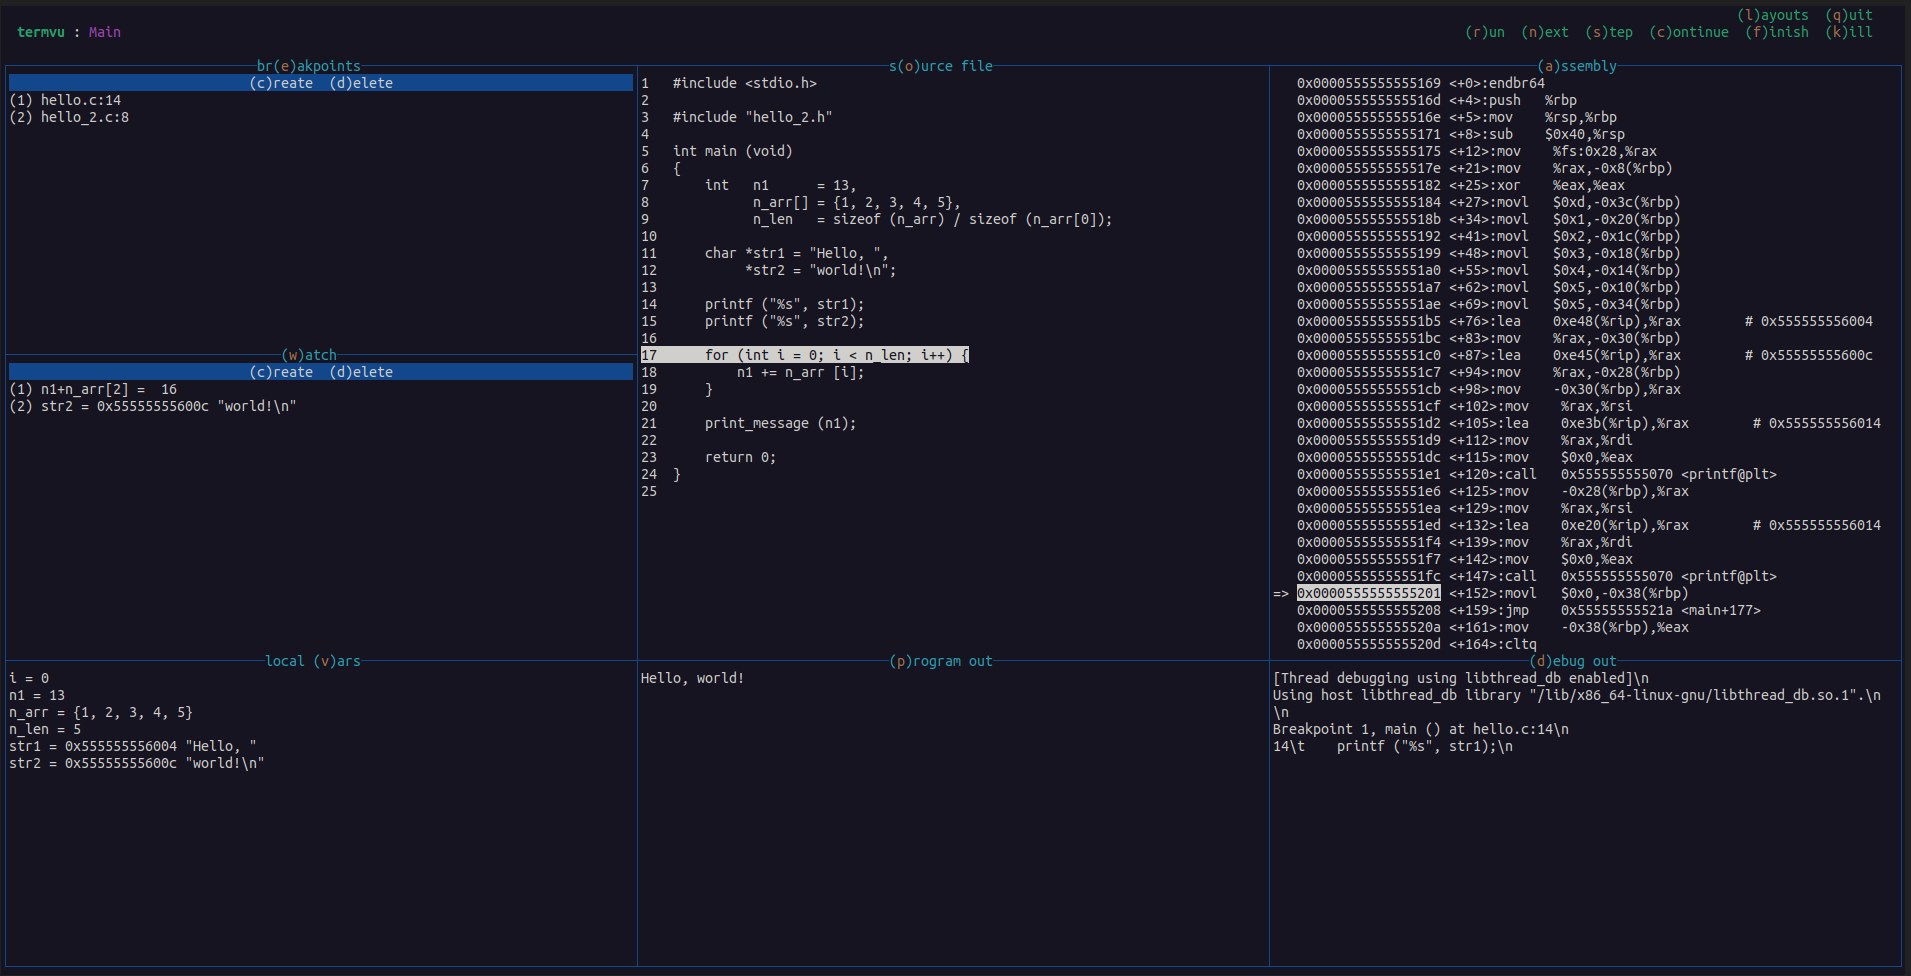
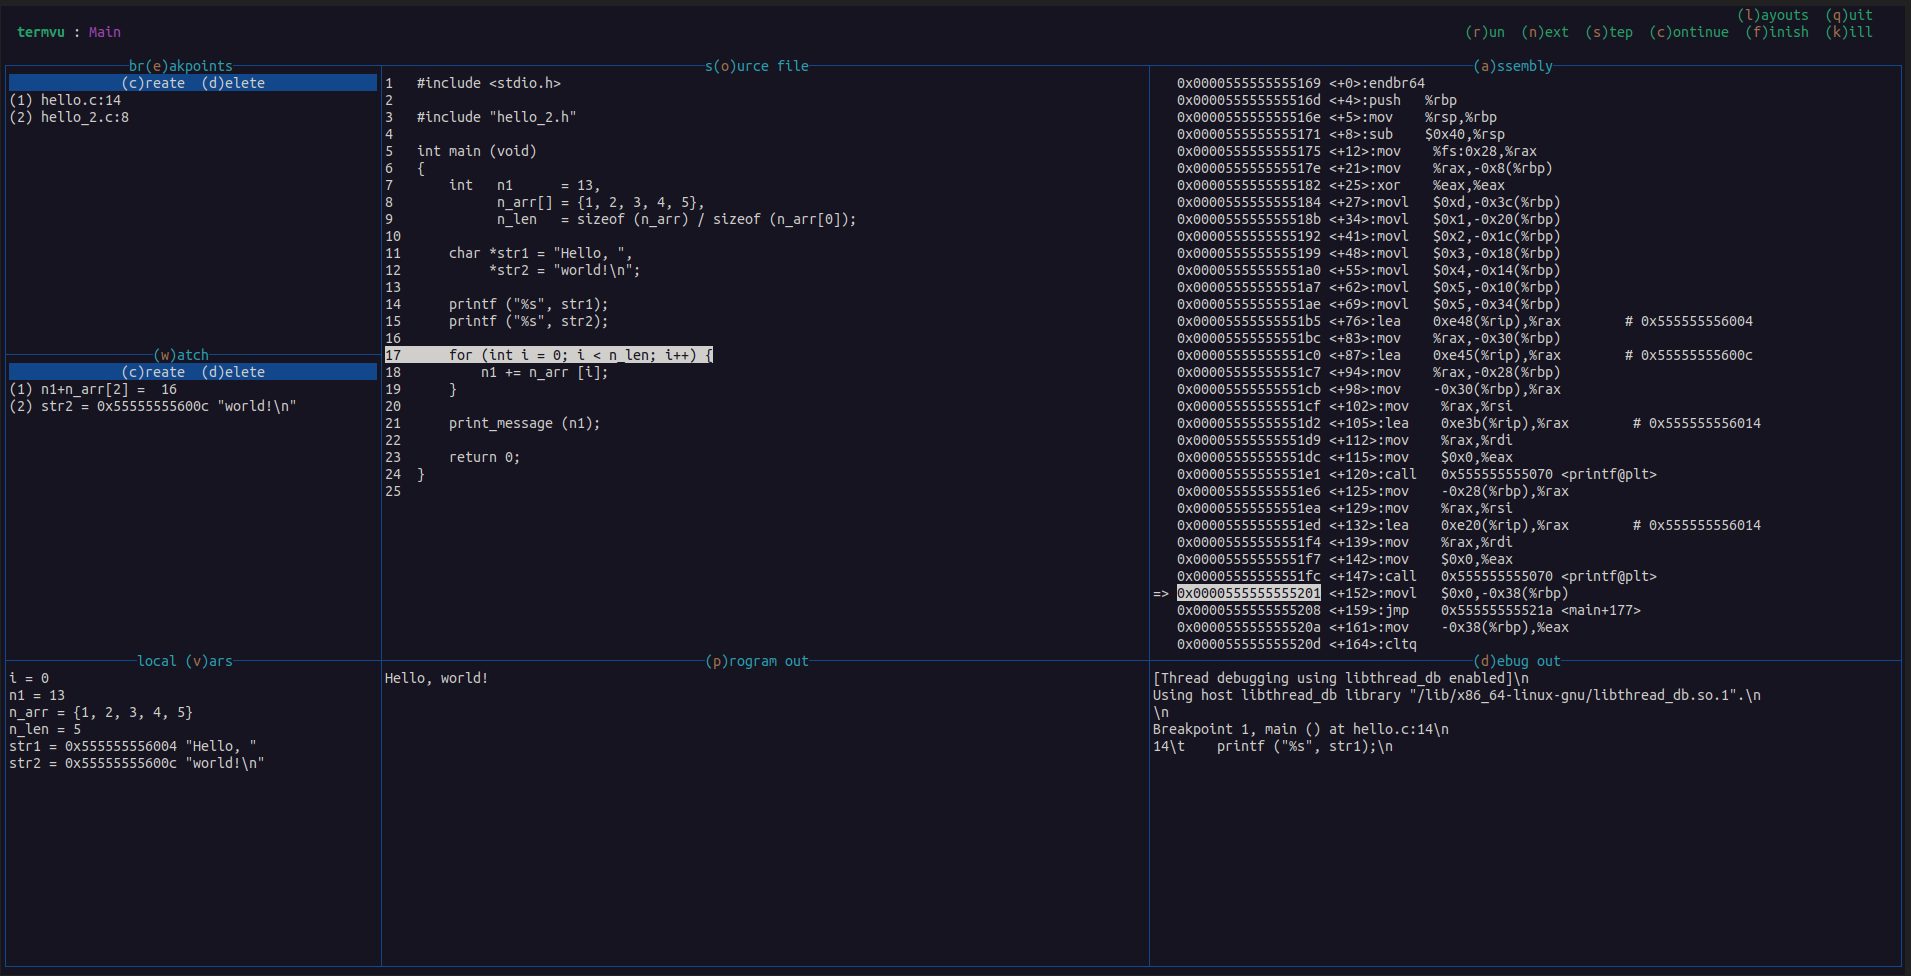
Updated README

diff --git a/README.md b/README.md
@@ -40,21 +40,25 @@ Src : o : s(o)urce file
 Stp : s : (s)tep
 Wat : w : (w)atch
 
+
 [ layout : Main ]
 
 >h
 lq
 rnscfk
+
 >w
-eoa
-woa
-vpd
+eooaa
+wooaa
+vppdd
+
 
 [ layout : Assembly / Registers ]
 
 >h
 lq
 rnscfk
+
 >w
 oag
 ```
